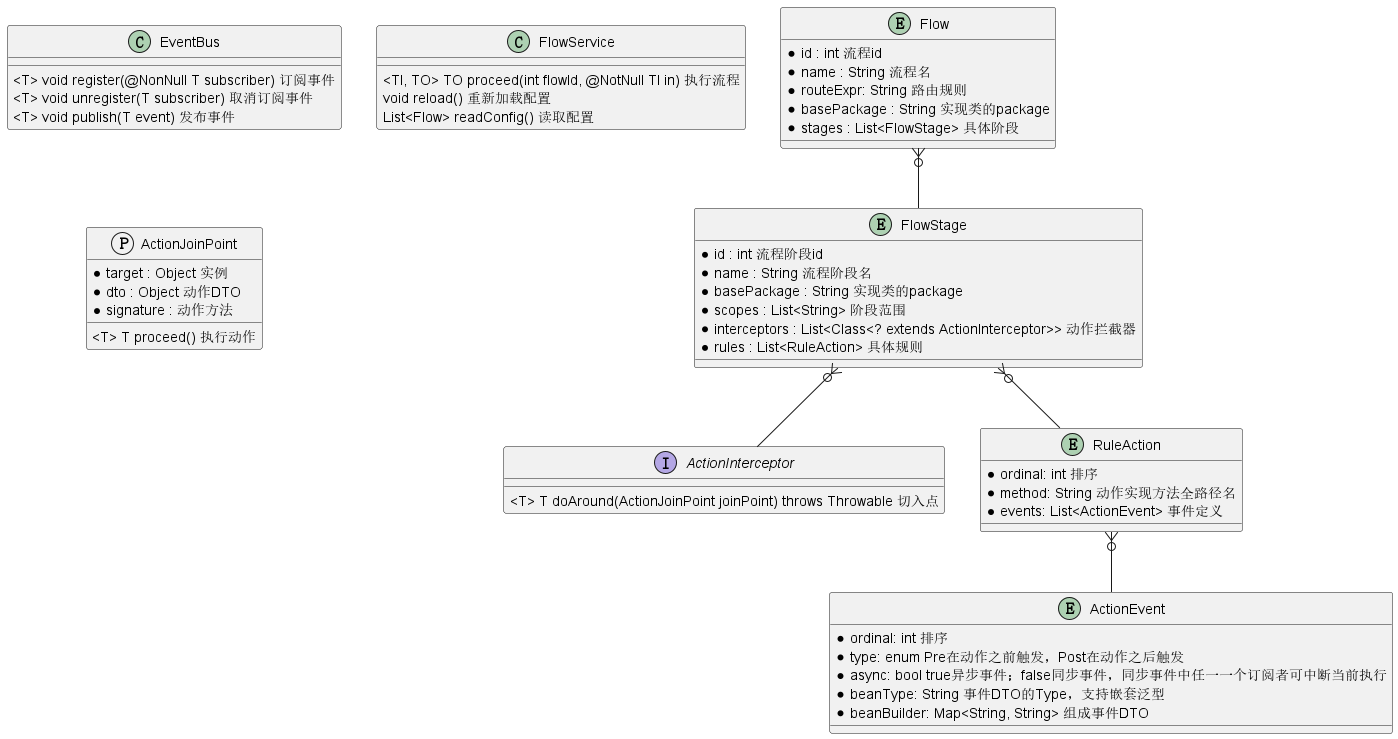
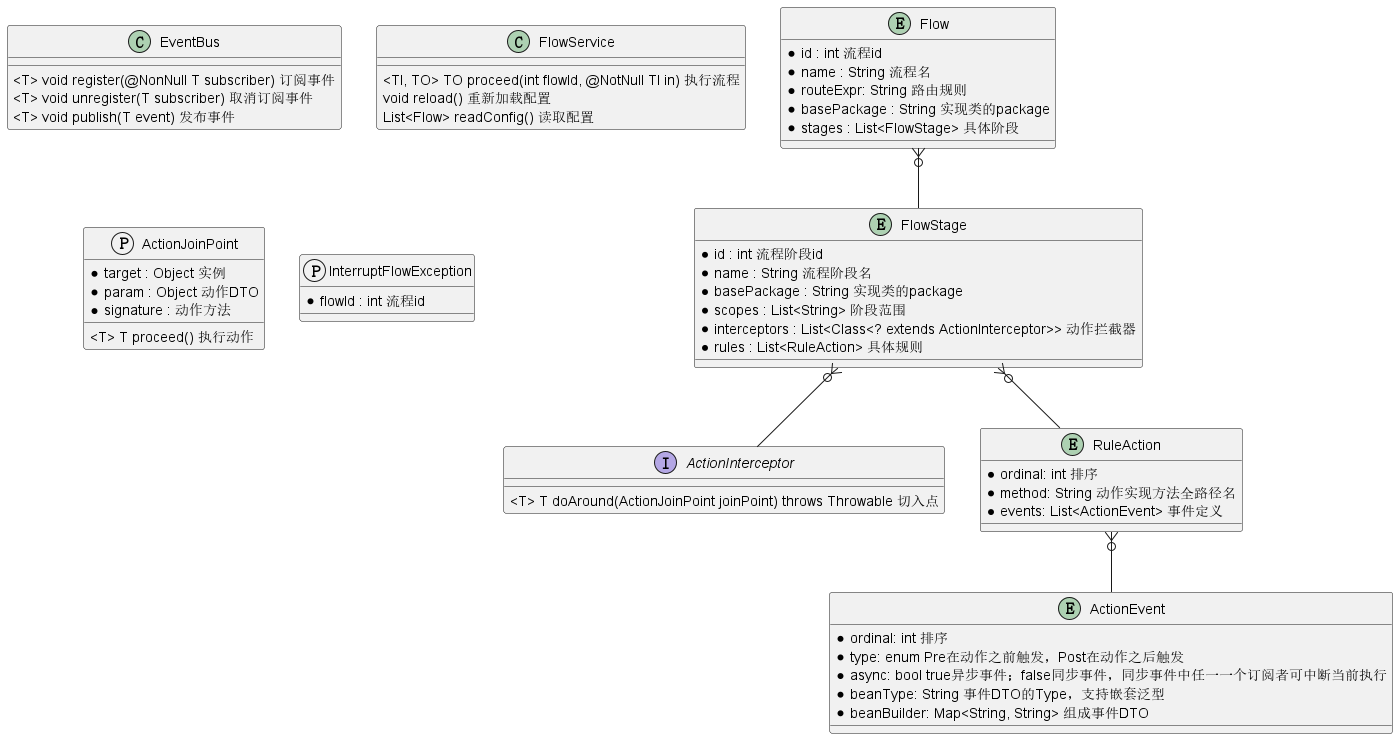
up

Changed region(s): [[0.0615, 0.3112, 0.1845, 0.4668], [0.2153, 0.3424, 0.3383, 0.4357]]

diff --git a/src/main/java/org/rx/demo/gjprescription/service/flow/ActionJoinPoint.java b/src/main/java/org/rx/demo/gjprescription/service/flow/ActionJoinPoint.java
@@ -17,14 +17,14 @@ public class ActionJoinPoint {
     /**
      * 动作DTO
      */
-    final Object dto;
+    final Object param;
     /**
      * 动作方法
      */
     final Method signature;
 
     public <T> T proceed() {
-        return proceed(dto);
+        return proceed(param);
     }
 
     /**
@@ -36,8 +36,9 @@ public class ActionJoinPoint {
      */
     @SneakyThrows
     public <T> T proceed(@NonNull Object dto) {
-        if (!this.dto.getClass().isInstance(dto)) {
-            throw new InvalidException("入参类型{}与原类型{}不匹配", dto.getClass(), this.dto.getClass());
+        //todo thread local ctx result
+        if (!this.param.getClass().isInstance(dto)) {
+            throw new InvalidException("入参类型{}与原类型{}不匹配", dto.getClass(), this.param.getClass());
         }
         return (T) signature.invoke(target, new Object[]{dto});
     }

diff --git a/src/main/java/org/rx/demo/gjprescription/service/evt/EvtConsumer.java b/src/main/java/org/rx/demo/gjprescription/service/evt/EvtConsumer.java
@@ -3,7 +3,9 @@ package org.rx.demo.gjprescription.service.evt;
 import lombok.extern.slf4j.Slf4j;
 import org.rx.annotation.Subscribe;
 import org.rx.core.EventBus;
+import org.rx.demo.gjprescription.service.biz.model.StartInquiryParam;
 import org.rx.demo.gjprescription.service.biz.model.StartInquiryResult;
+import org.rx.demo.gjprescription.service.flow.InterruptFlowException;
 import org.springframework.stereotype.Component;
 
 import javax.annotation.PostConstruct;
@@ -11,6 +13,13 @@ import javax.annotation.PostConstruct;
 @Slf4j
 @Component
 public class EvtConsumer {
+    @Subscribe
+    public void onEvt(StartInquiryParam p) {
+        //dto 属性可以透明懒加载
+        log.info("开始问诊事件触发{}", p);
+//        throw new InterruptFlowException("");
+    }
+
     @Subscribe
     public void onEvt(StartInquiryResult p) {
         //dto 属性可以透明懒加载

diff --git a/src/main/java/org/rx/demo/gjprescription/service/flow/InterruptFlowException.java b/src/main/java/org/rx/demo/gjprescription/service/flow/InterruptFlowException.java
@@ -1,0 +1,21 @@
+package org.rx.demo.gjprescription.service.flow;
+
+import org.rx.exception.ExceptionLevel;
+import org.rx.exception.InvalidException;
+
+/**
+ * 中断流程特定异常
+ */
+public class InterruptFlowException extends InvalidException {
+    protected InterruptFlowException(Throwable e) {
+        super(e);
+    }
+
+    public InterruptFlowException(String messagePattern, Object... args) {
+        super(messagePattern, args);
+    }
+
+    public InterruptFlowException(ExceptionLevel level, String messagePattern, Object... args) {
+        super(level, messagePattern, args);
+    }
+}
